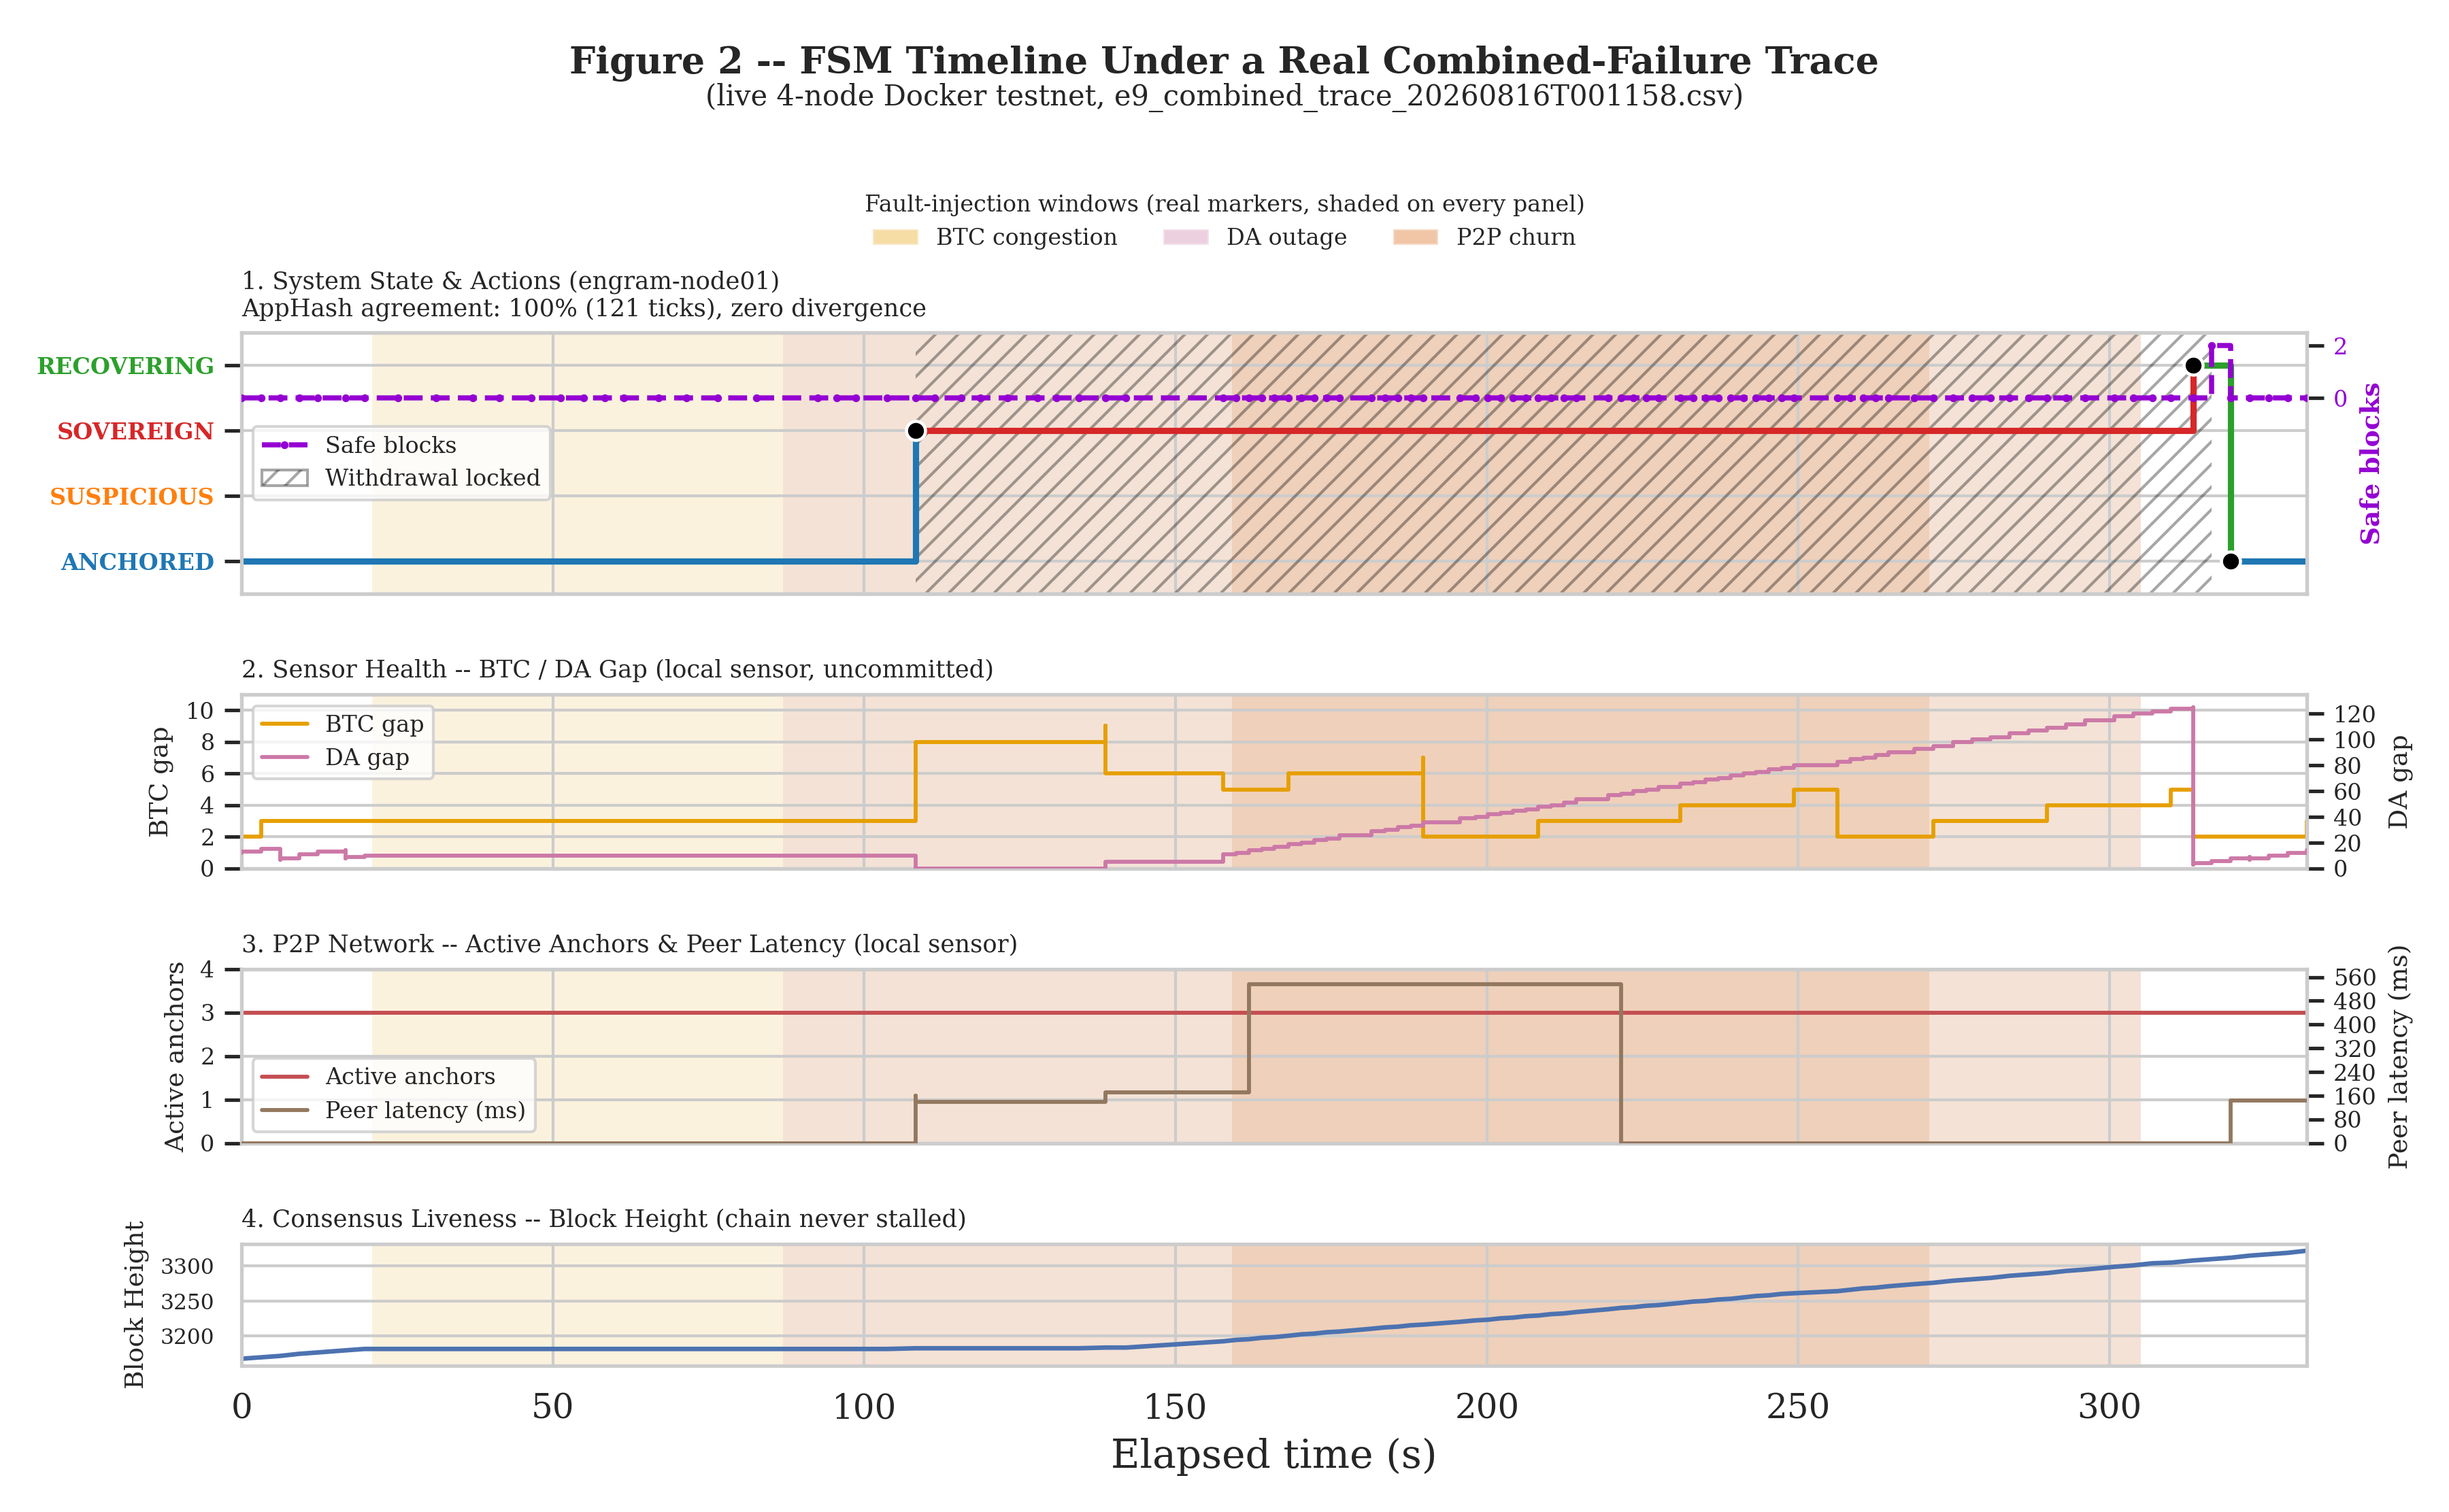
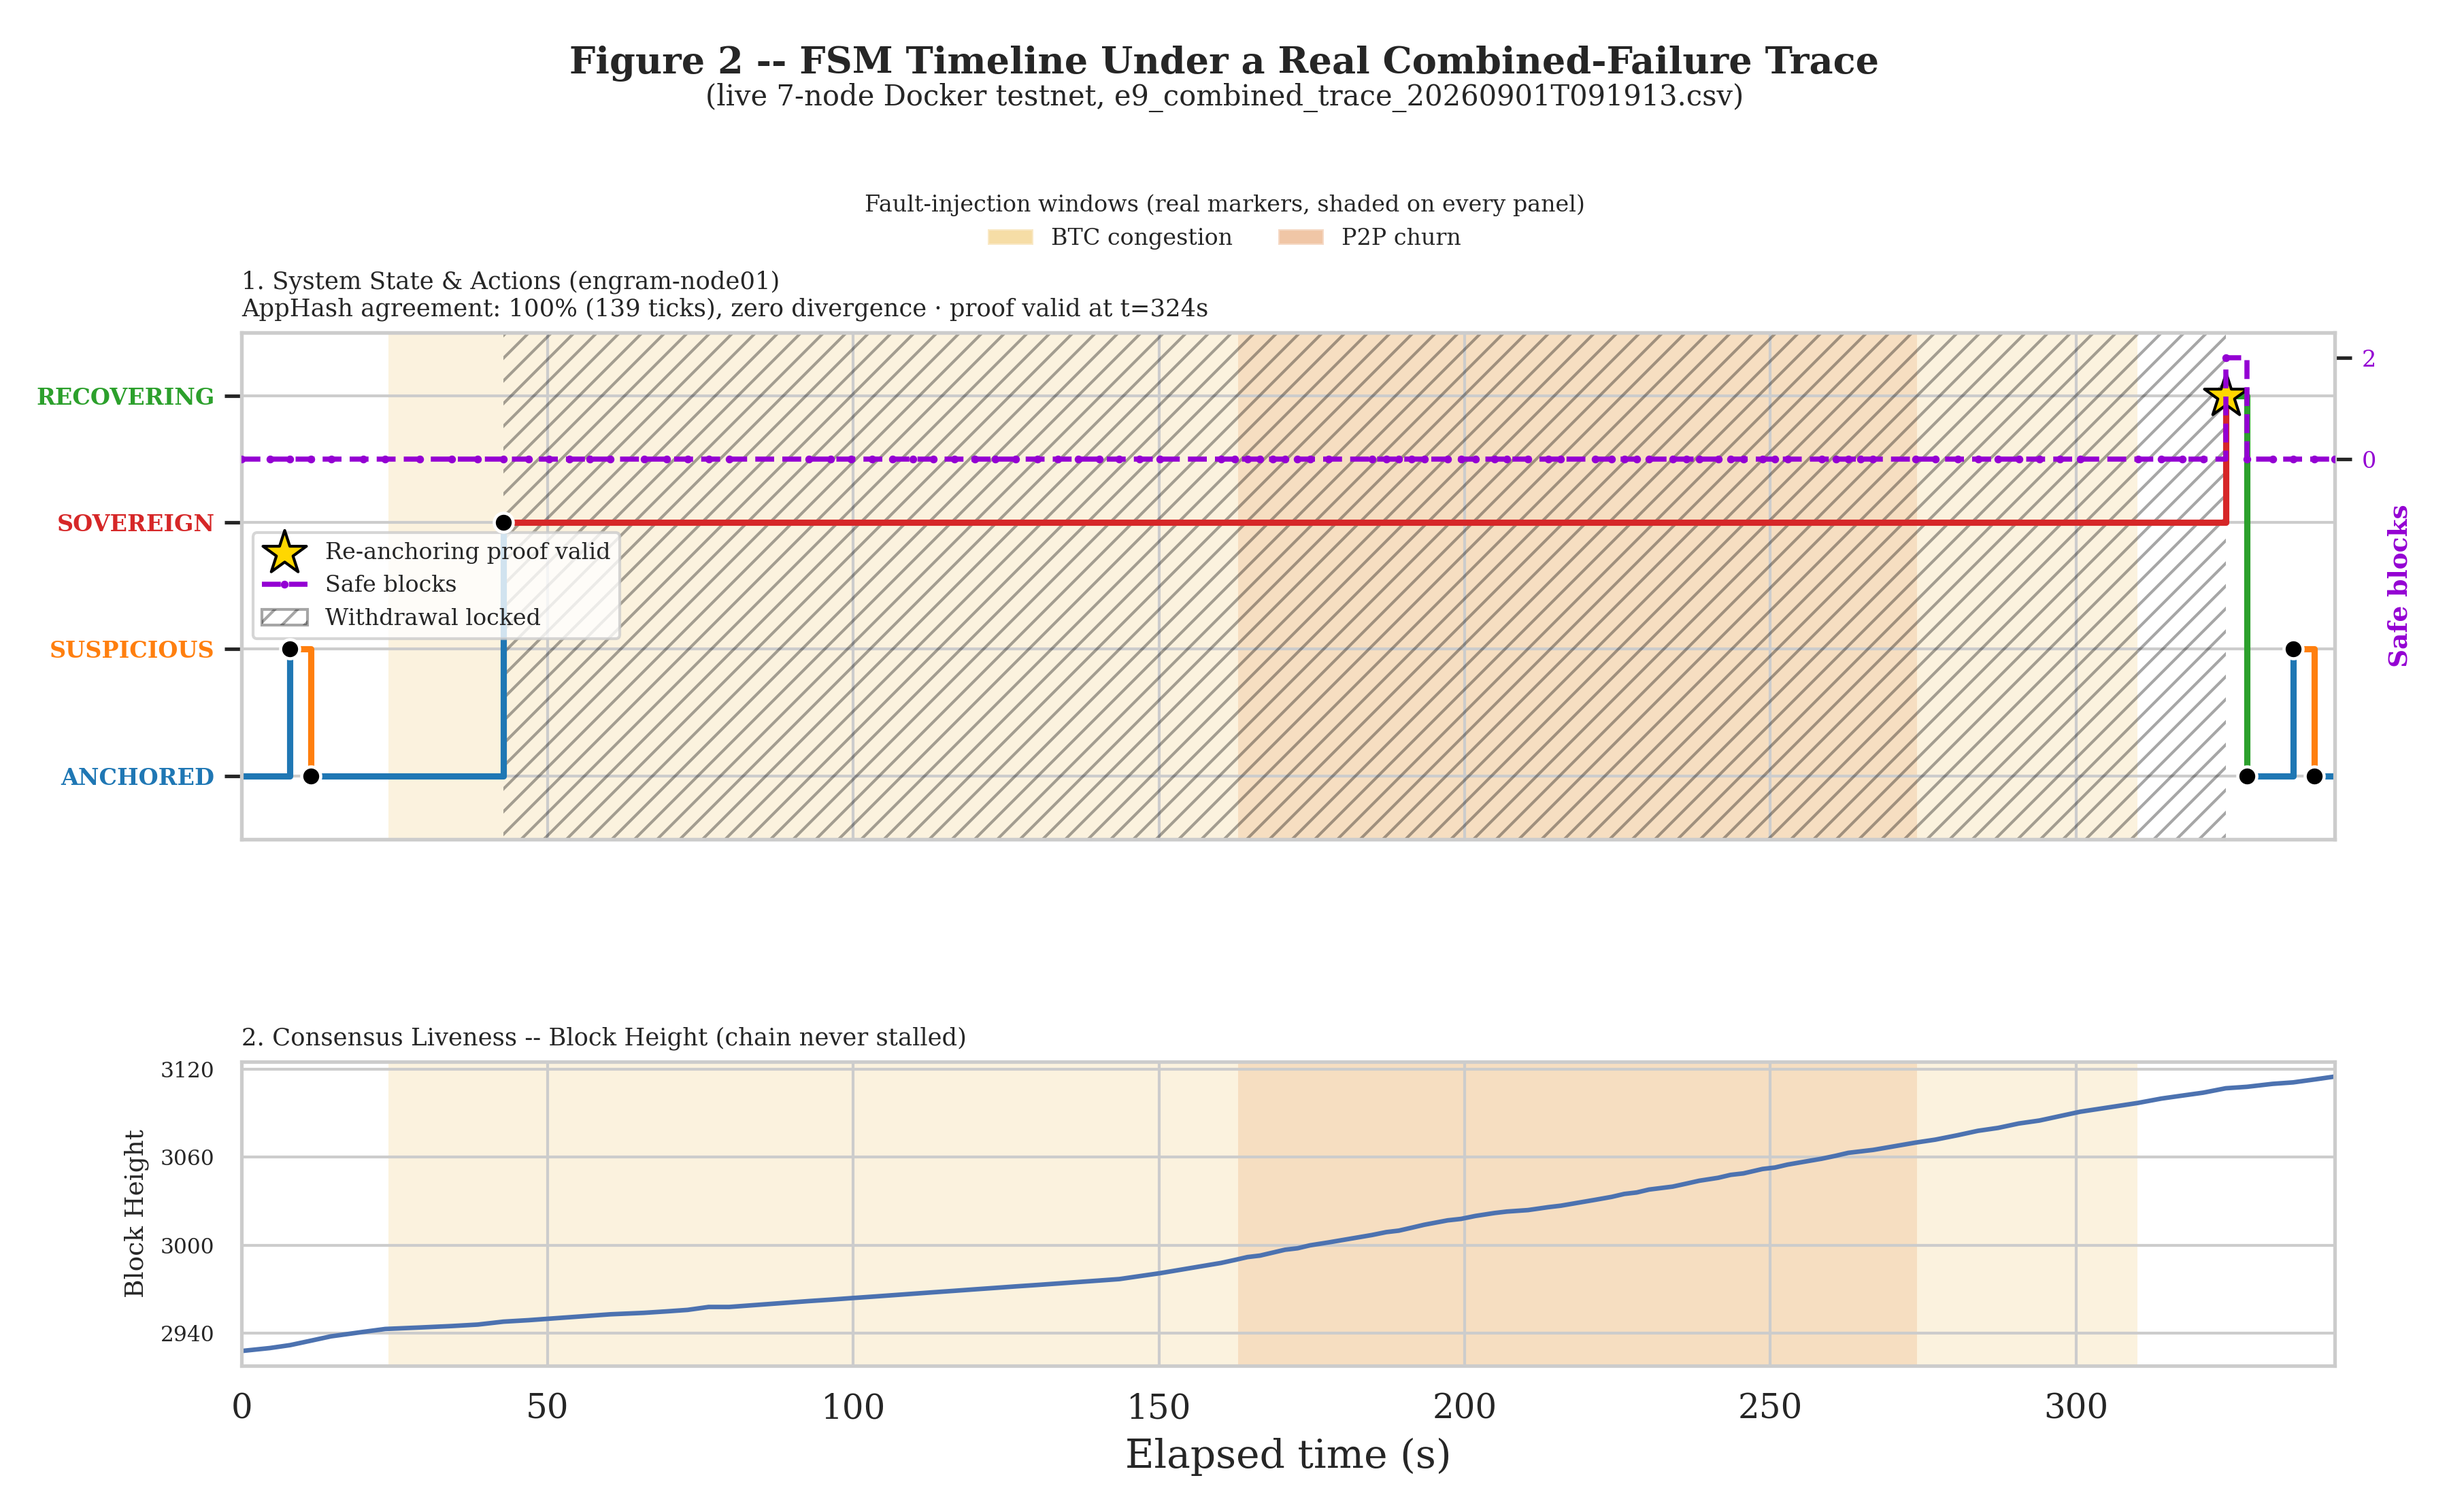
test: rename E9 trace-driven to composite-fault (script/test content)
Follow-up to bd449ef, which only captured the path rename -- the
actual content changes (references, docstrings, figure regeneration)
were dropped by an earlier failed `git add` invocation.

Claude-Session: https://claude.ai/code/session_01MSw8tTFkVLwUMXiWP3Lafc

Changed region(s): [[0.0, 0.1552, 0.9956, 0.5897], [0.0311, 0.6208, 0.9956, 0.9933], [0.3422, 0.1552, 0.3733, 0.1862]]

diff --git a/scripts/e9_composite_fault/live_combined_trace.py b/scripts/e9_composite_fault/live_combined_trace.py
@@ -1,5 +1,5 @@
 #!/usr/bin/env python3
-"""LIVE E9 combined-failure trace against the real 4-node testnet --
+"""LIVE E9 combined-failure trace against the real 7-node testnet --
 docs/EXPERIMENT.md's E9 capstone: ONE continuous run layering multiple
 overlapping peripheral failures (not sequential isolated toggles like
 live_lifecycle_test.py), a genuinely compounding stress trace across all 3
@@ -28,18 +28,17 @@ Layering, one continuous timeline (not sequential):
      live_scenario_matrix.py's final phase).
 
 Usage:
-    python3 -u scripts/e9_trace_driven/live_combined_trace.py
-    python3 -u scripts/e9_trace_driven/live_combined_trace.py --wan-profile none  # old uniform-LAN behavior
+    python3 -u scripts/e9_composite_fault/live_combined_trace.py
+    python3 -u scripts/e9_composite_fault/live_combined_trace.py --wan-profile none  # old uniform-LAN behavior
 """
 
 import argparse
 import os
-import subprocess
 import sys
 import time
 
 sys.path.insert(0, os.path.join(os.path.dirname(__file__), "..", "framework"))
-from logger import sample_all_nodes, write_csv, NODE_RPC_PORTS  # noqa: E402
+from logger import sample_all_nodes, write_csv, NODE_RPC_PORTS, stop_all_da_bridges, start_all_da_bridges  # noqa: E402
 from injector import (
     start_pumba_profile,
     cleanup_profile,
@@ -50,17 +49,12 @@ from injector import (
 from sensor_log_scraper import scrape_sensor_snapshots, nearest_timestamp  # noqa: E402
 
 RESULTS_DIR = os.path.join(os.path.dirname(__file__), "results_live")
-CELESTIA_BRIDGE = "celestia-bridge"
 BITCOIN_NODE = "bitcoin-node01"
 ALL_NODES = list(NODE_RPC_PORTS.keys())
 
 
 def now() -> str:
     return time.strftime("%H:%M:%S", time.gmtime())
-
-
-def docker(*args):
-    subprocess.run(["docker", *args], capture_output=True, text=True, timeout=30)
 
 
 class Tracker:
@@ -124,7 +118,7 @@ class Tracker:
             states = {s.node: s.fsm_state for s in round_samples}
             print(f"[{self.elapsed():6.0f}s][{self.phase}] {states}")
             if all(v == target_state for v in states.values()):
-                print(f"[{self.elapsed():6.0f}s] all 4 nodes reached {target_state}")
+                print(f"[{self.elapsed():6.0f}s] all {len(states)} nodes reached {target_state}")
                 return True
             time.sleep(2.0)
         print(
@@ -139,7 +133,7 @@ def main():
         "--wan-profile",
         choices=["none", "chaos-wan-latency", "chaos-wan-loss"],
         default="chaos-wan-latency",
-        help="per-validator WAN-realism baseline (each of the 4 validators gets a DIFFERENT "
+        help="per-validator WAN-realism baseline (each of the 7 validators gets a DIFFERENT "
         "delay/jitter or loss%%, approximating distinct real regions) held for the whole trace "
         "EXCEPT Phase 4 -- chaos-wan-* and chaos-loss both add a root netem qdisc on the same "
         "interfaces, so the WAN baseline is paused before Phase 4 and resumed after. 'none' "
@@ -168,10 +162,10 @@ def main():
     tr.poll(60, interval=3.0, phase="P2_btc_pressure_building")
 
     print(
-        "=== Phase 3: layer DA outage on top of BTC pressure (docker stop celestia-bridge) ==="
+        "=== Phase 3: layer DA outage on top of BTC pressure (stop all 7 celestia bridges) ==="
     )
-    docker("stop", CELESTIA_BRIDGE)
-    tr.mark("celestia-bridge stopped (DA outage layered on BTC pressure)")
+    stop_all_da_bridges()
+    tr.mark("all 7 celestia bridges stopped (DA outage layered on BTC pressure)")
     tr.poll(60, phase="P3_btc_plus_da")
 
     print(
@@ -202,8 +196,8 @@ def main():
     print("=== Phase 6: heal in reverse order ===")
     cleanup_profile("chaos-btc-delay")
     tr.mark("chaos-btc-delay cleaned up")
-    docker("start", CELESTIA_BRIDGE)
-    tr.mark("celestia-bridge restarted")
+    start_all_da_bridges()
+    tr.mark("all 7 celestia bridges restarted")
     tr.poll(30, phase="P6_healing")
 
     print(

diff --git a/scripts/e9_composite_fault/live_figure_builder.py b/scripts/e9_composite_fault/live_figure_builder.py
@@ -1,6 +1,6 @@
 #!/usr/bin/env python3
 """E9 -- Trace-Driven Stress Test, LIVE-docker Figure 2 (docs/EXPERIMENT.md's
-E9), built from live_combined_trace.py's real output against the real 4-node
+E9), built from live_combined_trace.py's real output against the real 7-node
 testnet (not tests/e2e's in-process mock).
 
 live_combined_trace.py's doc explains why BTC finality gap, DA availability,
@@ -36,7 +36,7 @@ Panels 2-3 (both sensor-CSV-dependent) drop out together if no sibling
 `<csv>_sensors.csv` scrape exists, leaving a 2-panel figure.
 
 Usage:
-    python3 scripts/e9_trace_driven/live_figure_builder.py [csv_path]
+    python3 scripts/e9_composite_fault/live_figure_builder.py [csv_path]
     (defaults to the newest e9_combined_trace_*.csv in results_live/)
 """
 
@@ -274,7 +274,7 @@ def _finish_figure(fig, windows, colors, csv_path):
     )
     fig.text(
         0.5, 0.945,
-        f"(live 4-node Docker testnet, {os.path.basename(csv_path)})",
+        f"(live 7-node Docker testnet, {os.path.basename(csv_path)})",
         ha="center", va="top", fontsize=10,
     )
     if fault_handles:
@@ -555,7 +555,7 @@ def main():
     if not csv_path or not os.path.exists(csv_path):
         print(
             f"No e9_combined_trace_*.csv found in {RESULTS_LIVE_DIR} -- "
-            "run scripts/e9_trace_driven/live_combined_trace.py first.",
+            "run scripts/e9_composite_fault/live_combined_trace.py first.",
             file=sys.stderr,
         )
         sys.exit(1)

diff --git a/tests/e2e/composite_fault_test.go b/tests/e2e/composite_fault_test.go
@@ -22,7 +22,7 @@ type traceRow struct {
 	ProofSubmitted bool
 }
 
-func TestE9_TraceDrivenCombinedFailure(t *testing.T) {
+func TestE9_CompositeFaultCombinedFailure(t *testing.T) {
 	h := NewHarness(t)
 	p := h.keeper.Params
 	var rows []traceRow
@@ -104,7 +104,7 @@ func TestE9_TraceDrivenCombinedFailure(t *testing.T) {
 func writeTraceCSV(t *testing.T, rows []traceRow) {
 	t.Helper()
 	require.NoError(t, os.MkdirAll("results", 0o755))
-	path := filepath.Join("results", "e9_trace_driven.csv")
+	path := filepath.Join("results", "e9_composite_fault.csv")
 	f, err := os.Create(path)
 	require.NoError(t, err)
 	defer f.Close()
